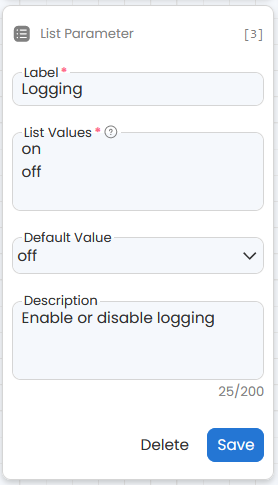
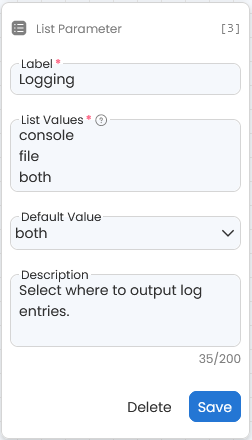
update logging

diff --git a/README.md b/README.md
@@ -34,8 +34,8 @@
     - ![pip edit bulk](images/pip_edit_bulk.png)
 5. Copy and paste the following packages into the `Edit Pip Packages` text field.
     ```
-    code-ocean-aux-tools==1.1.0
-    twilio
+    code-ocean-aux-tools==1.1.3
+    twilio==8.8.0
     ```
     - ![pip edit bulk](images/pip_packages.png)
 6. Your environment is setup. The first time you run this capsule, the environment will need to build and you will find a file called `buildLog` in the results folder. Every subsequent time you run this capsule, the environment will not build and the capsule will simply pull the docker images from the registry.
@@ -101,6 +101,13 @@ To effectively use this capsule to receive notifications in a pipeline, you will
 
 8. Complete the `Logging` list parameter.
     - Fill out the `Label`, `List Values`, `Default Value`, and `Description` fields.
+    - The values needed for the `List Values` section are
+    ```
+    console
+    file
+    both
+    off
+    ```
     - ![App Builder Logging](images/app_builder_parameter4.png)
 
 9. Add another `List Parameter` and complete the `Logging Level` list parameter.
